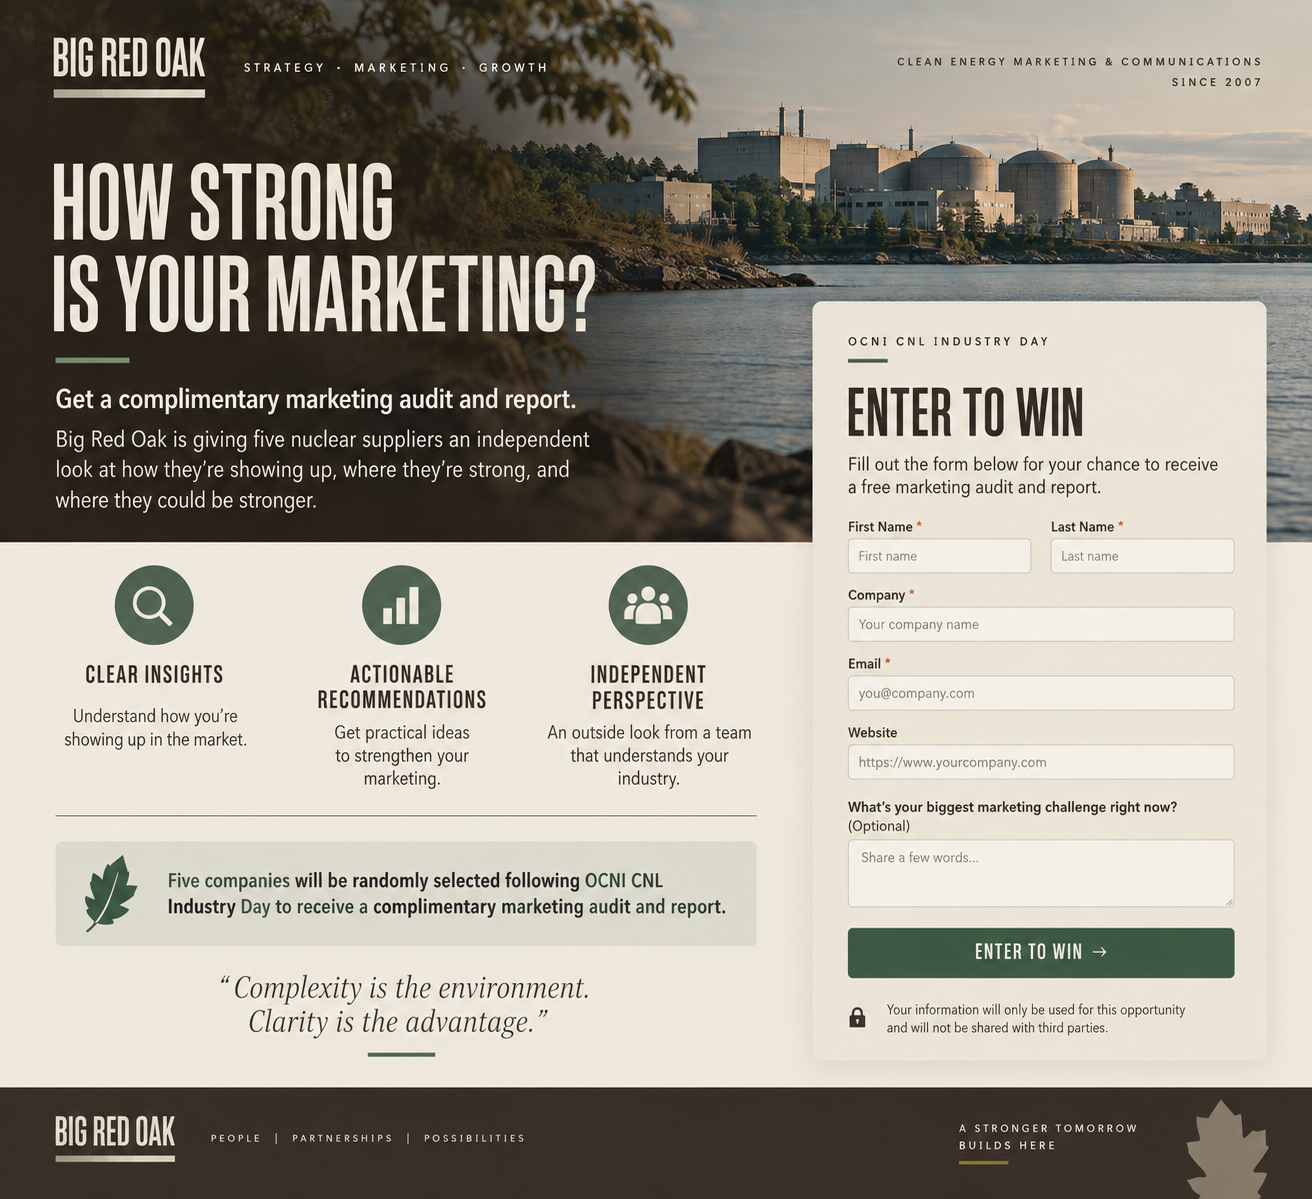
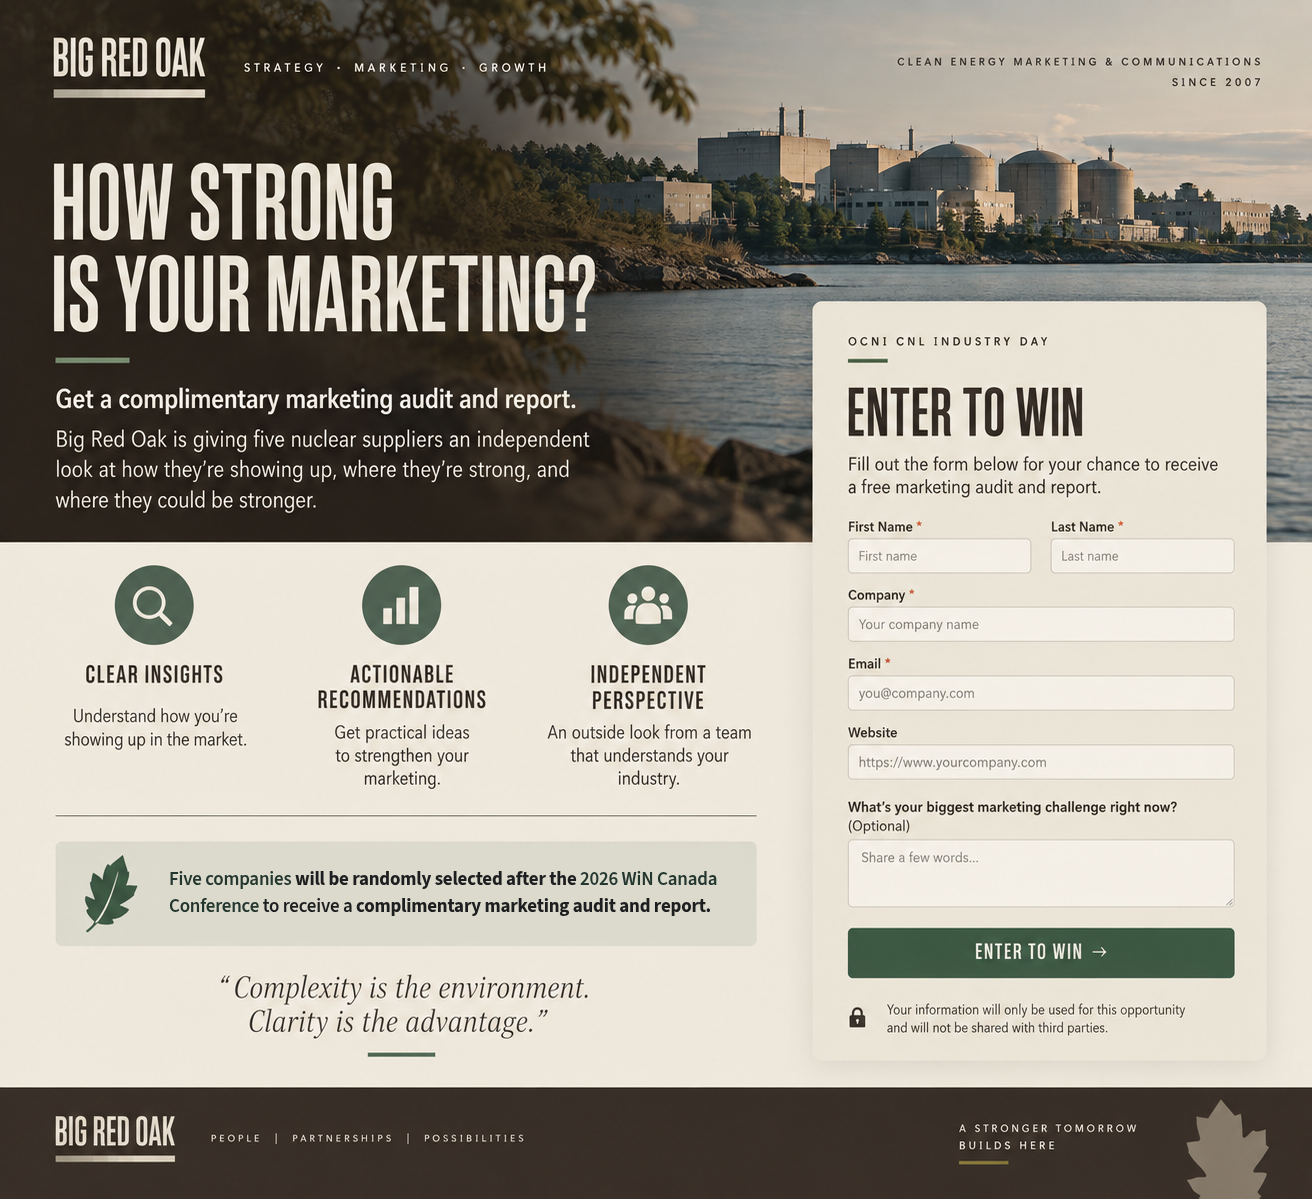
Retarget audit landing page to the 2026 WiN Canada Conference
Replaces OCNI CNL Industry Day references in the meta description,
both form kickers, the mobile draw line, and the draw callout baked
into the desktop background image. QR codes and form wiring unchanged.

Changed region(s): [[0.125, 0.7098, 0.5625, 0.7715]]

diff --git a/index.html b/index.html
@@ -4,7 +4,7 @@
 <meta charset="UTF-8">
 <meta name="viewport" content="width=device-width, initial-scale=1.0">
 <title>Win a Free Marketing Audit | Big Red Oak</title>
-<meta name="description" content="Enter to win a complimentary marketing audit and report from Big Red Oak at OCNI CNL Industry Day.">
+<meta name="description" content="Enter to win a complimentary marketing audit and report from Big Red Oak at the 2026 WiN Canada Conference.">
 <style>
 :root{
   --sage:#4E7A5C;
@@ -186,7 +186,7 @@ textarea{min-height:5.5em;resize:vertical}
 
 <div class="desktop-stage" aria-label="Big Red Oak marketing audit landing page">
   <form class="live-card js-entry-form">
-    <div class="card-kicker">OCNI CNL INDUSTRY DAY</div>
+    <div class="card-kicker">WIN CANADA CONFERENCE 2026</div>
     <div class="card-rule"></div>
     <h2 class="card-title">ENTER TO WIN</h2>
     <p class="card-copy">Fill out the form below for your chance to receive a free marketing audit and report.</p>
@@ -233,7 +233,7 @@ textarea{min-height:5.5em;resize:vertical}
 
   <div class="mobile-form-wrap">
     <form class="mobile-card js-entry-form">
-      <div class="card-kicker">OCNI CNL INDUSTRY DAY</div>
+      <div class="card-kicker">WIN CANADA CONFERENCE 2026</div>
       <div class="card-rule"></div>
       <h2 class="card-title">ENTER TO WIN</h2>
       <p class="card-copy">Fill out the form below for your chance to receive a free marketing audit and report.</p>
@@ -273,7 +273,7 @@ textarea{min-height:5.5em;resize:vertical}
     <div class="mobile-benefit"><div class="mobile-icon">◉</div><h3>INDEPENDENT PERSPECTIVE</h3><p>An outside look from a team that understands your industry.</p></div>
   </section>
 
-  <div class="mobile-draw">Five companies will be randomly selected following OCNI CNL Industry Day to receive a complimentary marketing audit and report.</div>
+  <div class="mobile-draw">Five companies will be randomly selected after the 2026 WiN Canada Conference to receive a complimentary marketing audit and report.</div>
   <div class="mobile-quote">“Complexity is the environment.<br>Clarity is the advantage.”</div>
   <footer class="mobile-footer">BIG RED OAK · PEOPLE · PARTNERSHIPS · POSSIBILITIES</footer>
 </div>
